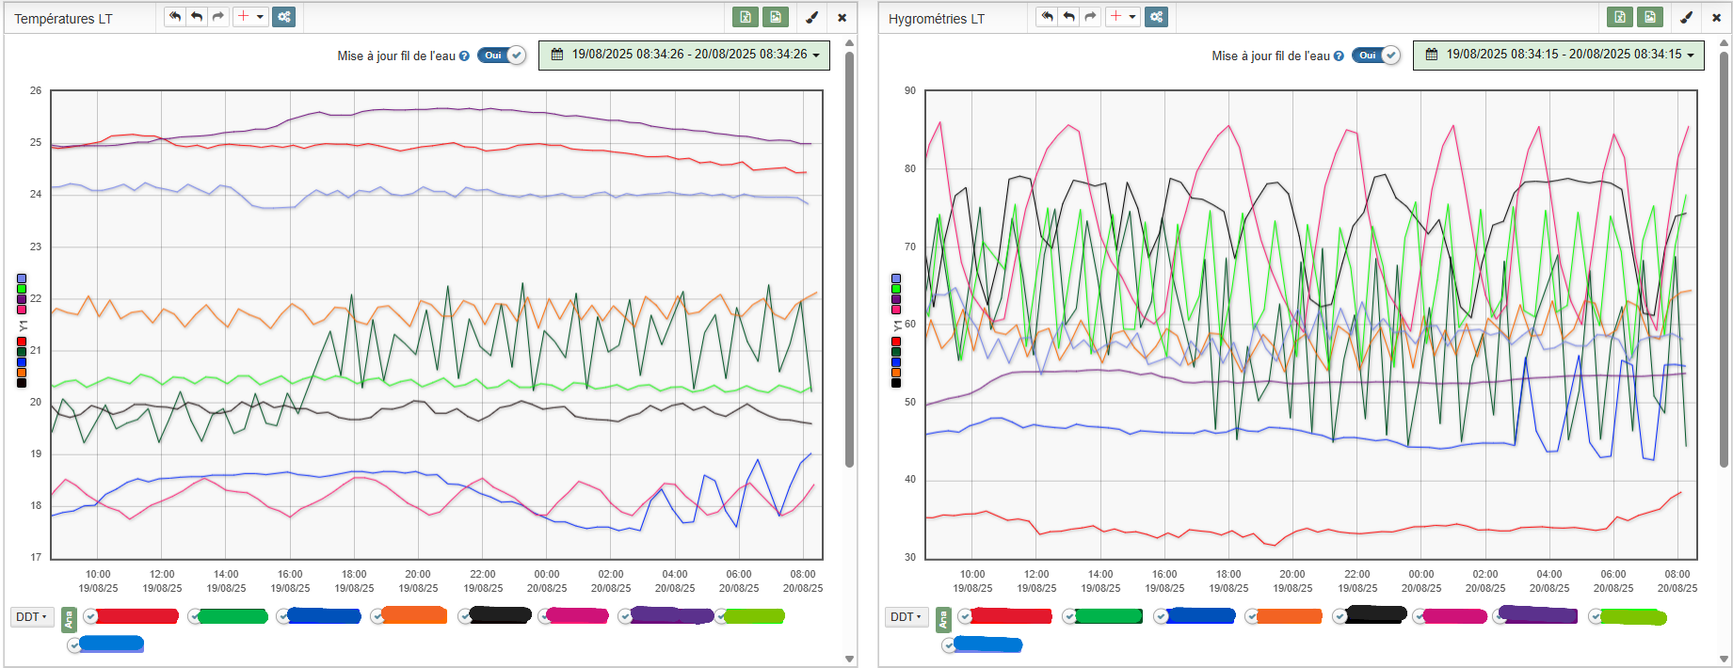
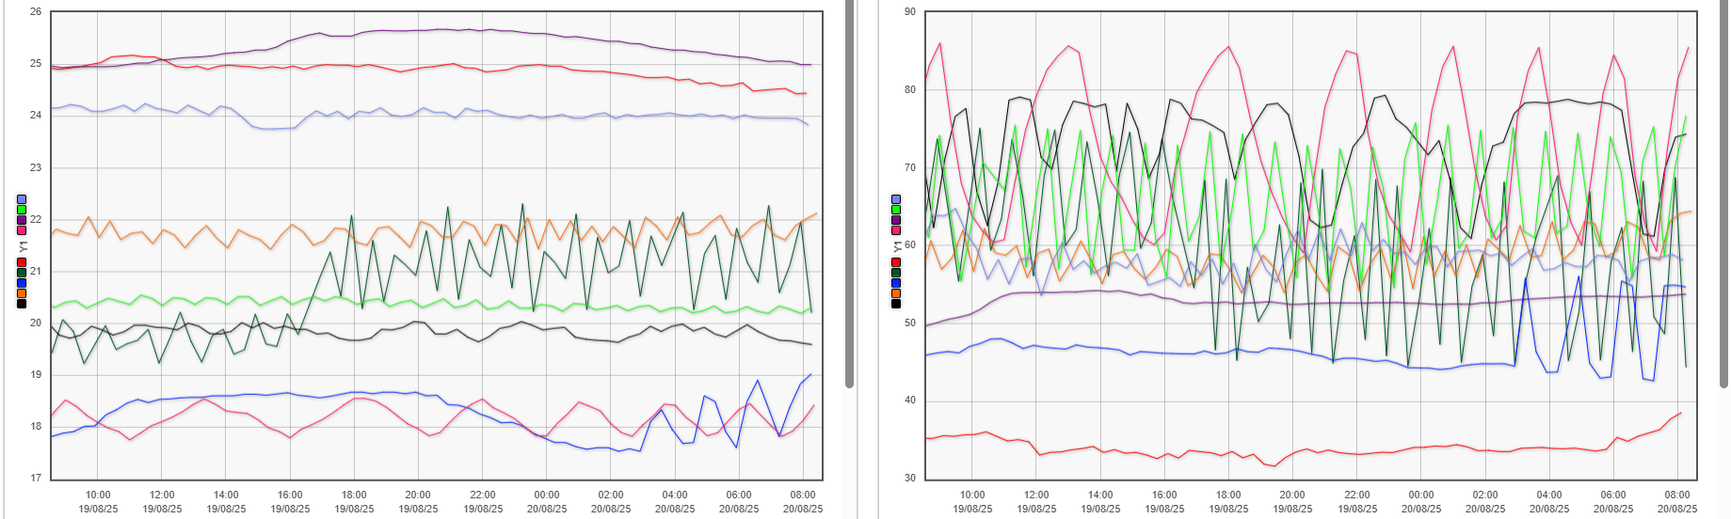
V2

Changed region(s): [[0.0, 0.0, 1.0, 1.0]]

diff --git a/index.html b/index.html
@@ -286,171 +286,181 @@
             <div class="project-grid">
 
                 <!-- ======================================================= -->
-                <!-- BRIQUE 1 : ALTERNANCE EDF - USINE IOT INDUSTRIEL       -->
-                <!-- ======================================================= -->
-                <div class="project-tile" role="button" tabindex="0">
-                    <img src="images/lorawan_projet.png" alt="Infrastructure IoT LoRaWAN industrielle EDF">
-                    <h3>Déploiement d'une Usine IoT Industrielle LoRaWAN (EDF DIGIT)</h3>
-                    <div class="project-full-details" style="display: none;">
-
-                        <h4>1. Contexte et Objectifs</h4>
-                        <p>
-                            <strong>Contexte :</strong> Alternance de deux ans menée au sein de l'équipe DIGIT du CNPE de Saint-Laurent-des-Eaux, en tant que référent technique local du projet BUILD « Usine IoT Industriel » : déploiement d'une infrastructure LoRaWAN complète pour la supervision de capteurs métiers (thermique, hygrométrie) sur l'ensemble du site.
-                            <br><strong>Objectifs :</strong>
-                            <ul>
-                                <li>Concevoir et déployer l'architecture radio LoRaWAN complète en environnement contraint (toiture extérieure, sous-sols SdM à -3m50, traversées Bâtiments Réacteurs).</li>
-                                <li>Superviser les équipements et valoriser les flux de télémétrie métiers (Paiiot Management, Nova, Elastic, Thingsboard).</li>
-                                <li>Instruire et valider les nouveaux cas d'usage métiers (surveillance hygrométrique, thermique) par des campagnes d'études radio (RSSI/SNR).</li>
-                                <li>Participer à la dynamique collaborative nationale au sein de l'Appren'Team (refonte des outils ITAM et du livret d'accueil DIGIT).</li>
-                            </ul>
-                        </p>
-
-                        <h4>2. Compétences et Réalisations</h4>
-                        <table class="competences-table">
-                            <thead>
-                                <tr>
-                                    <th>Bloc de Compétences B.U.T.</th>
-                                    <th>Actions Réalisées</th>
-                                    <th>Traces et Preuves Concrètes</th>
-                                </tr>
-                            </thead>
-                            <tbody>
-                                <tr>
-                                    <td><strong>Exploiter</strong><br><small>(Niv. 3 - IOM)</small><br><small>Mettre en œuvre et maintenir des systèmes IoT industriels</small></td>
-                                    <td>Déploiement complet des passerelles LoRaWAN (Multitech), enrôlement sur PAIIOT et création de synoptiques temps réel sous Nova pour le suivi thermique des locaux IT.</td>
-                                    <td>Synoptiques et graphiques de télémétrie Nova ; fiches de suivi d'actifs ITAM (ServiceNow/Fluid'IT).</td>
-                                </tr>
-                                <tr>
-                                    <td><strong>Étendre</strong><br><small>(Niv. 3 - IOM)</small><br><small>Déployer des infrastructures radio & réseaux mobiles</small></td>
-                                    <td>Ingénierie de couverture en milieu confiné : réutilisation innovante des antennes RDP en BR et raccordement PoE via ouverture de trémies coupe-feu en Salle des Machines (-3m50).</td>
-                                    <td>Schémas de raccordement DSLAM/VLAN ; plans d'implantation et d'architecture RCI.</td>
-                                </tr>
-                                <tr>
-                                    <td><strong>Connecter</strong><br><small>(Niv. 3 - Démarche scientifique)</small><br><small>Mesurer, caractériser et fiabiliser la transmission</small></td>
-                                    <td>Campagnes de qualification radio 24h (bâtiment RENOLAB, BR1) avec boîtiers de test FTD pour valider la robustesse de la modulation CSS face aux parois en béton armé.</td>
-                                    <td>Tableaux comparatifs des niveaux RSSI/SNR extraits d'Elastic et validés par l'expert radio national.</td>
-                                </tr>
-                                <tr>
-                                    <td><strong>Administrer</strong><br><small>(Niv. 3)</small><br><small>Gérer et sécuriser une infrastructure IoT</small></td>
-                                    <td>Administration des passerelles LoRaWAN (mises à jour firmware, gestion des accès PAIIOT) et audits de conformité des locaux techniques hébergeant les équipements radio (APAVE).</td>
-                                    <td>Fiches de configuration des passerelles ; rapports d'audit APAVE des locaux techniques IoT.</td>
-                                </tr>
-                            </tbody>
-                        </table>
-
-                        <h4>3. Bilan et Analyse Réflexive</h4>
-                        <p>
-                            <strong>Apprentissages critiques :</strong>
-                            <ul>
-                                <li><strong>Ingénierie radio en milieu ultra-contraint :</strong> L'expérience m'a appris à confronter les modèles théoriques aux réalités physiques du terrain (effet cage de Faraday du bâtiment réacteur, atténuation massive dans les structures métalliques). L'adaptation d'impédance non standard sur les antennes RDP a démontré la résilience de la modulation LoRa tout en soulignant la nécessité d'une démarche de fiabilisation pérenne.</li>
-                                <li><strong>Posture de référent technique :</strong> Passer d'exécutant à interlocuteur technique privilégié pour la MOA, les experts nationaux et les prestataires (ENSIO, SITES, Dalkia) m'a permis de développer une posture d'arbitrage technique, d'anticipation des risques de sûreté et de communication transverse.</li>
-                                <li><strong>Culture de la sûreté nucléaire :</strong> L'application quotidienne des PFI (Pratiques de Fiabilisation des Interventions) et la rigueur documentaire (traçabilité absolue des brassages et des équipements) ont forgé une discipline professionnelle indispensable en ingénierie industrielle.</li>
-                            </ul>
-                        </p>
-                        <p>
-                            <strong>Bilan personnel :</strong> Ces deux années m'ont donné l'opportunité de mener un projet à haute responsabilité en totale autonomie, tout en renforçant mon esprit d'équipe au sein du collectif Appren'Team. Cette expérience confirme mon projet professionnel et valide ma capacité à piloter des infrastructures IoT industrielles complexes.
-                        </p>
-
-                        <h4>4. Illustrations du Projet</h4>
-                        <div class="project-image-container">
-                            <img src="images/syno1.png" alt="Synoptique de supervision thermique Nova">
-                        </div>
-                        <div class="project-image-container">
-                            <img src="images/schema_raccordement_br.png" alt="Schéma de raccordement des passerelles BR">
-                        </div>
-
-                    </div>
-                </div>
-
 
                 <!-- ======================================================= -->
-                <!-- BRIQUE 2 : PROJET DE FIN D'ÉTUDES (SAÉ6.IOM.01)       -->
-                <!-- ======================================================= -->
-                <div class="project-tile" role="button" tabindex="0">
-                    <img src="images/parking_vue_globale.png" alt="Simulateur de Parking Connecté">
-                    <h3>Simulateur de Parking Connecté (SAÉ6.IOM.01 - Projet de Fin d'Études)</h3>
-                    <div class="project-full-details" style="display: none;">
+<!-- BRIQUE 1 : ALTERNANCE EDF - USINE IOT INDUSTRIEL        -->
+<!-- ======================================================= -->
+<div class="project-tile" role="button" tabindex="0">
+    <img src="images/lorawan_projet.png" alt="Infrastructure IoT LoRaWAN industrielle EDF">
+    <h3>Déploiement d'une Usine IoT Industrielle LoRaWAN (EDF DIGIT)</h3>
+    <div class="project-full-details" style="display: none;">
 
-                        <h4>1. Contexte et Objectifs</h4>
-                        <p>
-                            <strong>Contexte :</strong> Projet intégrateur de fin de cursus en BUT3 Réseaux et Télécommunications (parcours IOM). L'objectif était de concevoir et réaliser de bout en bout la maquette fonctionnelle d'un parking intelligent « Smart City » combinant détection de places, contrôle d'accès sécurisé par badge, affichage dynamique et supervision temps réel sur écran tactile partagé (Raspberry Pi 4).
-                            <br><strong>Objectifs :</strong>
-                            <ul>
-                                <li>Concevoir une architecture distribuée Edge Computing tolérante aux pannes (Serveur RPi3 + passerelle LoRa + contrôleur barrière ESP32 + client léger RPi4).</li>
-                                <li>Implémenter une approche comparative sur 3 technologies de détection de véhicules (effet Hall KY-003, interrupteur Reed ILS, capteur optique IR).</li>
-                                <li>Mettre en œuvre 3 technologies sans fil hétérogènes : LoRa (870.3 MHz), Wi-Fi (2.4 GHz) et RFID (13.56 MHz).</li>
-                                <li>Développer une architecture de données hybride associant InfluxDB (séries temporelles) et SQLite (gestion relationnelle des usagers et logs d'accès).</li>
-                                <li>Concevoir les circuits imprimés (CAO Fritzing / gravure CNC) et modéliser l'ensemble des éléments mécaniques en impression 3D (PLA).</li>
-                            </ul>
-                        </p>
+        <h4>1. Contexte et Objectifs</h4>
+        <p>
+            <strong>Contexte :</strong> Alternance de deux ans menée au sein de l'équipe DIGIT du CNPE de Saint-Laurent-des-Eaux. Dans le cadre du programme national de la DTEO, j'ai agi en tant que référent technique local pour le déploiement du projet BUILD « Usine IoT Industriel » : la mise en œuvre d'une infrastructure privée LoRaWAN complète pour la supervision de capteurs métiers (thermique, hygrométrie) en environnement nucléaire contraint.
+            <br><strong>Objectifs :</strong>
+            <ul>
+                <li>Concevoir et déployer l'architecture radio LoRaWAN (passerelles Multitech) dans des zones industrielles complexes (toiture extérieure, sous-sols SdM à -3m50, Bâtiments Réacteurs).</li>
+                <li>Superviser les équipements radio et valoriser les flux de télémétrie métiers (Paiiot Management, Nova, Elastic, Thingsboard).</li>
+                <li>Instruire la faisabilité technique de nouveaux cas d'usage métiers par des campagnes d'études de couverture radio (mesures RSSI/SNR).</li>
+                <li>Garantir la traçabilité matérielle et documentaire (référentiel ITAM, plans d'implantation).</li>
+            </ul>
+        </p>
 
-                        <h4>2. Compétences et Réalisations</h4>
-                        <table class="competences-table">
-                            <thead>
-                                <tr>
-                                    <th>Bloc de Compétences B.U.T.</th>
-                                    <th>Actions Réalisées</th>
-                                    <th>Traces et Preuves Concrètes</th>
-                                </tr>
-                            </thead>
-                            <tbody>
-                                <tr>
-                                    <td><strong>Exploiter</strong><br><small>(Niv. 3 - IOM)</small><br><small>Concevoir et intégrer une solution IoT globale</small></td>
-                                    <td>Développement de la chaîne complète : acquisition capteurs sur ESP32, transmission des trames LoRa événementielles et restitution dynamique sur dashboard Web Flask.</td>
-                                    <td>Schéma synoptique global ; diagramme de séquence des flux ; dashboard de supervision avec chronomètres d'occupation.</td>
-                                </tr>
-                                <tr>
-                                    <td><strong>Programmer</strong><br><small>(Niv. 3)</small><br><small>Développer des applications embarquées et Web temps réel</small></td>
-                                    <td>Programmation C++/Arduino multitâche (anti-rebond logiciel de 5s, servomoteur PWM, boucle ultrason anti-écrasement) et backend Python Flask multithreadé (gestion des ports série, API REST, requêtes InfluxDB/SQLite).</td>
-                                    <td>Code source commenté (<code>ESP_Parking.ino</code>, <code>ESP_Barrier.ino</code>, <code>app.py</code>) ; routes API JSON.</td>
-                                </tr>
-                                <tr>
-                                    <td><strong>Connecter</strong><br><small>(Niv. 3 - IOM)</small><br><small>Mettre en œuvre des réseaux sans fil hétérogènes</small></td>
-                                    <td>Configuration et optimisation des couches radio : LoRa 870.3 MHz (SF7/BW125k), Wi-Fi local RPi3-RPi4 et protocole SPI pour lecteur RFID RC522 (13.56 MHz).</td>
-                                    <td>Tableau de dimensionnement LoRa ; logs de trames formatées <code>SECURE_PARK</code> et extraction RSSI.</td>
-                                </tr>
-                                <tr>
-                                    <td><strong>Administrer</strong><br><small>(Niv. 3)</small><br><small>Déployer des services et sécuriser les échanges</small></td>
-                                    <td>Administration système Linux Raspbian (service <code>systemd</code> de démarrage automatique, gestion GPIO/I2C/PWM pour écran LCD 16x2) et filtrage applicatif des trames LoRa par clé d'authentification.</td>
-                                    <td>Fichier <code>parking.service</code> ; gestionnaire d'alertes d'intrusion console ; scripts de maintenance <code>reset_db.py</code>.</td>
-                                </tr>
-                                <tr>
-                                    <td><strong>Fabriquer / Prototyper</strong><br><small>(Hardware & Électronique)</small><br><small>Conception CAO électronique et mécanique</small></td>
-                                    <td>Routage sous Fritzing et usinage CNC de 3 circuits imprimés (Hub Parking, Hub Contrôle d'Accès, Signalisation RFID) ; modélisation CAO et impression 3D de la structure d'accueil et de la barrière (6 versions d'itérations).</td>
-                                    <td>Schémas de typons PCB ; photos de la maquette finalisée avec intégration sous plancher.</td>
-                                </tr>
-                            </tbody>
-                        </table>
+        <h4>2. Compétences et Réalisations</h4>
+        <table class="competences-table">
+            <thead>
+                <tr>
+                    <th>Bloc de Compétences B.U.T.</th>
+                    <th>Actions Réalisées</th>
+                    <th>Traces et Preuves Concrètes</th>
+                </tr>
+            </thead>
+            <tbody>
+                <tr>
+                    <td><strong>Exploiter</strong><br><small>(Niveau 2 - Parcours IOM)</small><br><small>Créer des solutions sécurisées pour l'Internet des Objets</small></td>
+                    <td>Supervision globale de l'infrastructure radio : enrôlement des objets sur PAIIOT Management, vérification de l'état des équipements sous DX NetOps Spectrum, et création de tableaux de bord pour les métiers.</td>
+                    <td>Synoptique de supervision sous Nova ; captures d'écran d'états d'objets sur PAIIOT/Elastic.</td>
+                </tr>
+                <tr>
+                    <td><strong>Étendre</strong><br><small>(Niveau 2 - Parcours IOM)</small><br><small>Raccorder des objets connectés aux réseaux mobiles</small></td>
+                    <td>Mise en œuvre concrète du réseau en milieu confiné : étude de réutilisation des antennes RDP via les traversées Auxitrol (Bâtiment Réacteur), et déploiement avec ouverture de trémies coupe-feu en Salle des Machines (-3m50).</td>
+                    <td>Schéma de raccordement télécom des passerelles BR1/BR2 ; Demandes validées d'ouverture de trémies (SITES/ENSIO).</td>
+                </tr>
+                <tr>
+                    <td><strong>Connecter</strong><br><small>(Niveau 3)</small><br><small>Déployer une solution de connexion ou de communication</small></td>
+                    <td>Démarche scientifique de qualification radio : campagnes de mesures sur 24h avec des boîtiers Field Test Device (FTD) pour valider la pénétration de la modulation LoRa dans des bâtiments critiques (RENOLAB, BR).</td>
+                    <td>Tableau des mesures moyennes RSSI/SNR ; compte-rendu de couverture validé par l'expert radio national.</td>
+                </tr>
+                <tr>
+                    <td><strong>Administrer</strong><br><small>(Niveau 3)</small><br><small>Concevoir un réseau</small></td>
+                    <td>Réalisation de la documentation technique et gestion du parc : mise à jour des plans systèmes du site nucléaire, demandes d'ouverture de ports VLAN (réseau RCI), et traçabilité du cycle de vie des passerelles.</td>
+                    <td>Extraits (anonymisés) des plans d'implantation officiels ; Fiches d'inventaire ITAM (ServiceNow).</td>
+                </tr>
+            </tbody>
+        </table>
 
-                        <h4>3. Bilan et Analyse Réflexive</h4>
-                        <p>
-                            <strong>Apprentissages critiques :</strong>
-                            <ul>
-                                <li><strong>Arbitrage et simplicité d'ingénierie :</strong> Face aux conflits d'adresses I2C non modifiables des magnétomètres GY-271, le choix pragmatique de basculer sur des capteurs à effet Hall sur GPIO direct a permis de garantir la robustesse sans alourdir le système avec un multiplexeur.</li>
-                                <li><strong>Fiabilisation des flux asynchrones :</strong> L'apparition de faux positifs lors des manœuvres de stationnement a été résolue par un filtrage temporel de 5 secondes, garantissant que seules les données stables sont transmises et stockées. De même, la sécurisation du décodage série (gestion UTF-8 et caractères 7 bits stricts) a éliminé tout risque de plantage du serveur central.</li>
-                                <li><strong>Gestion des contraintes de fabrication :</strong> La maîtrise des paramètres d'usinage CNC (vitesse de passe, usure des fraises) et le partage des ressources m'ont conduit à réajuster le périmètre (câblage manuel des LEDs sol) pour respecter le jalon de livraison client sans dégrader les fonctionnalités.</li>
-                            </ul>
-                        </p>
-                        <p>
-                            <strong>Bilan personnel :</strong> Ce projet de synthèse m'a permis de mobiliser en parfaite autonomie l'ensemble des compétences acquises à l'IUT (électronique, réseaux sans fil, systèmes Linux et développement Web). Il démontre ma capacité à concevoir, prototyper, documenter et livrer un système communicant complexe dans le respect strict d'un cahier des charges client.
-                        </p>
+        <h4>3. Bilan et Analyse Réflexive</h4>
+        <p>
+            <strong>Apprentissages critiques :</strong>
+            <ul>
+                <li><strong>Ingénierie radio en milieu ultra-contraint :</strong> L'expérience m'a appris à confronter les modèles théoriques aux réalités physiques du terrain (effet cage de Faraday des réacteurs, traversées Auxitrol). L'expérimentation sur les antennes RDP a démontré la résilience de la modulation à étalement de spectre (CSS) de LoRa face aux désadaptations d'impédance, tout en soulignant l'importance d'anticiper la fiabilisation pérenne du matériel.</li>
+                <li><strong>Posture de référent technique :</strong> Passer d'exécutant à interlocuteur technique privilégié pour la MOA, les experts nationaux et les prestataires (ENSIO) m'a permis de développer une posture d'arbitrage technique, d'anticipation des risques et de communication transverse.</li>
+                <li><strong>Culture de la sûreté nucléaire :</strong> L'application quotidienne des PFI (Pratiques de Fiabilisation des Interventions) et la rigueur documentaire (traçabilité absolue des brassages et des équipements) ont forgé une discipline professionnelle indispensable en ingénierie industrielle.</li>
+            </ul>
+        </p>
+        <p>
+            <strong>Bilan personnel :</strong> Ces deux années m'ont donné l'opportunité de mener un projet à haute responsabilité en totale autonomie, tout en renforçant mon esprit d'équipe au sein du collectif Appren'Team. Cette expérience valide ma capacité à piloter des infrastructures IoT industrielles complexes et confirme mon projet d'évolution vers l'ingénierie réseaux.
+        </p>
 
-                        <h4>4. Illustrations du Projet</h4>
-                        <div class="project-image-container">
-                            <img src="images/parking_synoptique.png" alt="Schéma synoptique de l'architecture du parking connecté">
-                        </div>
-                        <div class="project-image-container">
-                            <img src="images/parking_dashboard.png" alt="Dashboard Web de supervision Flask">
-                        </div>
-                        <div class="project-image-container">
-                            <img src="images/parking_pcb_structure.png" alt="Circuits imprimés usinés et structure 3D">
-                        </div>
+        <h4>4. Illustrations du Projet</h4>
+        <!-- Conteneur Flexbox pour mettre les images côte à côte -->
+        <div style="display: flex; flex-wrap: wrap; gap: 20px; justify-content: center; margin-top: 20px;">
+            <img src="images/infra_iot.png" alt="Schéma conceptuel de l'architecture IIoT" style="max-width: 45%; height: auto; border-radius: 8px; box-shadow: 0 4px 6px rgba(0,0,0,0.1); object-fit: contain;">
+            
+            <img src="images/mesure_couverture_ftd.png" alt="Test de couverture radio LoRaWAN avec boîtier Adeunis" style="max-width: 45%; height: auto; border-radius: 8px; box-shadow: 0 4px 6px rgba(0,0,0,0.1); object-fit: contain;">
+        </div>
 
-                    </div>
-                </div>
+    </div>
+</div>
 
-            </div>
+
+
+
+<!-- ======================================================= -->
+<!-- BRIQUE 2 : PROJET DE FIN D'ÉTUDES (SAÉ6.IOM.01)       -->
+<!-- ======================================================= -->
+<div class="project-tile" role="button" tabindex="0">
+    <img src="images/parking_final.png" alt="Maquette du Simulateur de Parking Connecté">
+    <h3>Simulateur de Parking Connecté (SAÉ6.IOM.01 - Projet de Fin d'Études)</h3>
+    <div class="project-full-details" style="display: none;">
+
+        <h4>1. Contexte et Objectifs</h4>
+        <p>
+            <strong>Contexte :</strong> Projet intégrateur de fin de cursus en BUT3 Réseaux et Télécommunications (parcours IOM). L'objectif était de concevoir et réaliser de bout en bout la maquette fonctionnelle d'un parking intelligent « Smart City » combinant détection de places, contrôle d'accès sécurisé par badge, affichage dynamique et supervision temps réel sur écran tactile partagé.
+            <br><strong>Objectifs :</strong>
+            <ul>
+                <li>Concevoir une architecture distribuée Edge Computing tolérante aux pannes (Serveur RPi3 + passerelle LoRa + contrôleur barrière ESP32 + client léger RPi4).</li>
+                <li>Implémenter une approche comparative sur 3 technologies de détection de véhicules (effet Hall KY-003, interrupteur Reed ILS, capteur optique IR).</li>
+                <li>Mettre en œuvre 3 technologies sans fil hétérogènes : LoRa (870.3 MHz), Wi-Fi (2.4 GHz) et RFID (13.56 MHz).</li>
+                <li>Développer une architecture de données hybride associant InfluxDB (séries temporelles) et SQLite (gestion relationnelle des usagers et logs d'accès).</li>
+                <li>Concevoir les circuits imprimés (CAO Fritzing / gravure CNC) et modéliser l'ensemble des éléments mécaniques en impression 3D (PLA).</li>
+            </ul>
+        </p>
+
+        <h4>2. Compétences et Réalisations</h4>
+        <table class="competences-table">
+            <thead>
+                <tr>
+                    <th>Bloc de Compétences B.U.T.</th>
+                    <th>Actions Réalisées</th>
+                    <th>Traces et Preuves Concrètes</th>
+                </tr>
+            </thead>
+            <tbody>
+                <tr>
+                    <td><strong>Exploiter</strong><br><small>(Niveau 2 - Parcours IOM)</small><br><small>Créer des solutions sécurisées pour l'Internet des Objets</small></td>
+                    <td>Intégration des systèmes électroniques via la conception CAO (Fritzing) des PCB, et sécurisation du réseau IoT via l'implémentation d'une clé d'authentification <code>SECURE_PARK|</code> filtrant les trames LoRa intrusives.</td>
+                    <td>Schémas de routage PCB (Hub Parking, Hub Accès) ; extraits de code du filtre de sécurité applicatif (ESP_Passerelle.ino).</td>
+                </tr>
+                <tr>
+                    <td><strong>Programmer</strong><br><small>(Niveau 3)</small><br><small>Piloter un projet de développement d'une application</small></td>
+                    <td>Déploiement d'une solution informatique associant un backend Python Flask multithreadé (API REST, requêtes InfluxDB/SQLite) et une programmation C++/Arduino multitâche (timeout HC-SR04, anti-rebond logiciel de 5s).</td>
+                    <td>Code source commenté sur GitHub (<code>app.py</code>, firmware ESP32) ; Dashboard de supervision dynamique (HTML/JS).</td>
+                </tr>
+                <tr>
+                    <td><strong>Connecter</strong><br><small>(Niveau 3)</small><br><small>Déployer une solution de connexion ou de communication</small></td>
+                    <td>Mise en œuvre du réseau d'accès incluant l'interconnexion Wi-Fi locale (RPi3 vers RPi4) et la communication matérielle SPI pour le lecteur RFID RC522 (13.56 MHz).</td>
+                    <td>Schéma synoptique des interconnexions ; code d'intégration SPI du RC522.</td>
+                </tr>
+                <tr>
+                    <td><strong>Administrer</strong><br><small>(Niveau 3)</small><br><small>Concevoir un réseau</small></td>
+                    <td>Administration système Linux Raspbian (création d'un service <code>systemd</code> de démarrage automatique) et gestion du projet aboutissant à la réalisation de la maquette de démonstration.</td>
+                    <td>Fichier <code>parking.service</code> ; modélisations 3D de la maquette ; respect du planning (Gantt).</td>
+                </tr>
+                <tr>
+                    <td><strong>Étendre</strong><br><small>(Niveau 2 - Parcours IOM)</small><br><small>Raccorder des objets connectés aux réseaux mobiles</small></td>
+                    <td>Mise en œuvre d'un réseau IoT industriel avec configuration de la couche radio LoRa (Spreading Factor 7, BW 125kHz) et décalage de la fréquence à 870.3 MHz pour éviter les collisions.</td>
+                    <td>Tableau de dimensionnement des paramètres LoRa ; diagramme de séquence du flux de données radio.</td>
+                </tr>
+            </tbody>
+        </table>
+
+        <h4>3. Bilan et Analyse Réflexive</h4>
+        <p>
+            <strong>Apprentissages critiques :</strong>
+            <ul>
+                <li><strong>Arbitrage et pragmatisme d'ingénierie :</strong> Face aux conflits d'adresses I2C non modifiables des magnétomètres GY-271 envisagés initialement, le choix pragmatique de basculer sur des capteurs à effet Hall (sur GPIO direct) a permis de garantir la robustesse sans alourdir l'architecture avec un multiplexeur.</li>
+                <li><strong>Fiabilisation des flux asynchrones :</strong> L'apparition de faux positifs lors des manœuvres de stationnement a été résolue par un filtrage temporel de 5 secondes. De même, la sécurisation du décodage série (gestion du paramètre <code>errors='ignore'</code> en Python pour parer l'erreur <code>0xC9</code> due aux accents) a éliminé tout risque de plantage inopiné du serveur central.</li>
+                <li><strong>Gestion des contraintes de fabrication :</strong> La maîtrise progressive des paramètres d'usinage CNC (vitesse de passe) et le design itératif en impression 3D (6 versions pour équilibrer la barrière) m'ont appris à gérer les aléas matériels et à adapter le périmètre du projet pour respecter le jalon de livraison client.</li>
+            </ul>
+        </p>
+        <p>
+            <strong>Bilan personnel :</strong> Ce projet de synthèse m'a permis de mobiliser en parfaite autonomie l'ensemble des compétences acquises à l'IUT (électronique, réseaux sans fil, systèmes Linux et développement Web). Il démontre ma capacité à concevoir, prototyper, documenter (Cahier des Charges, Gantt, Notices) et livrer un système communicant complexe.
+        </p>
+
+        <!-- Lien vers le dépôt GitHub -->
+        <div style="text-align: center; margin: 25px 0;">
+            <a href="https://github.com/T0maSV/SAE6IOM01" target="_blank" rel="noopener noreferrer" style="background-color: #2c3e50; color: white; padding: 12px 24px; text-decoration: none; border-radius: 5px; font-weight: bold; display: inline-flex; align-items: center; gap: 10px; transition: 0.3s;">
+                <svg height="24" width="24" viewBox="0 0 16 16" fill="white"><path d="M8 0C3.58 0 0 3.58 0 8c0 3.54 2.29 6.53 5.47 7.59.4.07.55-.17.55-.38 0-.19-.01-.82-.01-1.49-2.01.37-2.53-.49-2.69-.94-.09-.23-.48-.94-.82-1.13-.28-.15-.68-.52-.01-.53.63-.01 1.08.58 1.23.82.72 1.21 1.87.87 2.33.66.07-.52.28-.87.51-1.07-1.78-.2-3.64-.89-3.64-3.95 0-.87.31-1.59.82-2.15-.08-.2-.36-1.02.08-2.12 0 0 .67-.21 2.2.82.64-.18 1.32-.27 2-.27.68 0 1.36.09 2 .27 1.53-1.04 2.2-.82 2.2-.82.44 1.1.16 1.92.08 2.12.51.56.82 1.27.82 2.15 0 3.07-1.87 3.75-3.65 3.95.29.25.54.73.54 1.48 0 1.07-.01 1.93-.01 2.2 0 .21.15.46.55.38A8.013 8.013 0 0016 8c0-4.42-3.58-8-8-8z"></path></svg>
+                Voir le code source sur GitHub
+            </a>
+        </div>
+
+        <h4>4. Illustrations du Projet</h4>
+        <!-- Conteneur Flexbox pour mettre les images côte à côte -->
+        <div style="display: flex; flex-wrap: wrap; gap: 20px; justify-content: center; margin-top: 20px;">
+            <img src="images/schema_synoptique.png" alt="Schéma synoptique de l'architecture du parking connecté" style="max-width: 45%; height: auto; border-radius: 8px; box-shadow: 0 4px 6px rgba(0,0,0,0.1); object-fit: contain;">
+            
+            <img src="images/hub_accueil.png" alt="Circuits imprimés usinés et structure 3D" style="max-width: 45%; height: auto; border-radius: 8px; box-shadow: 0 4px 6px rgba(0,0,0,0.1); object-fit: contain;">
+        </div>
+
+    </div>
+</div>
         </section>
+
+
+
 
 
 
